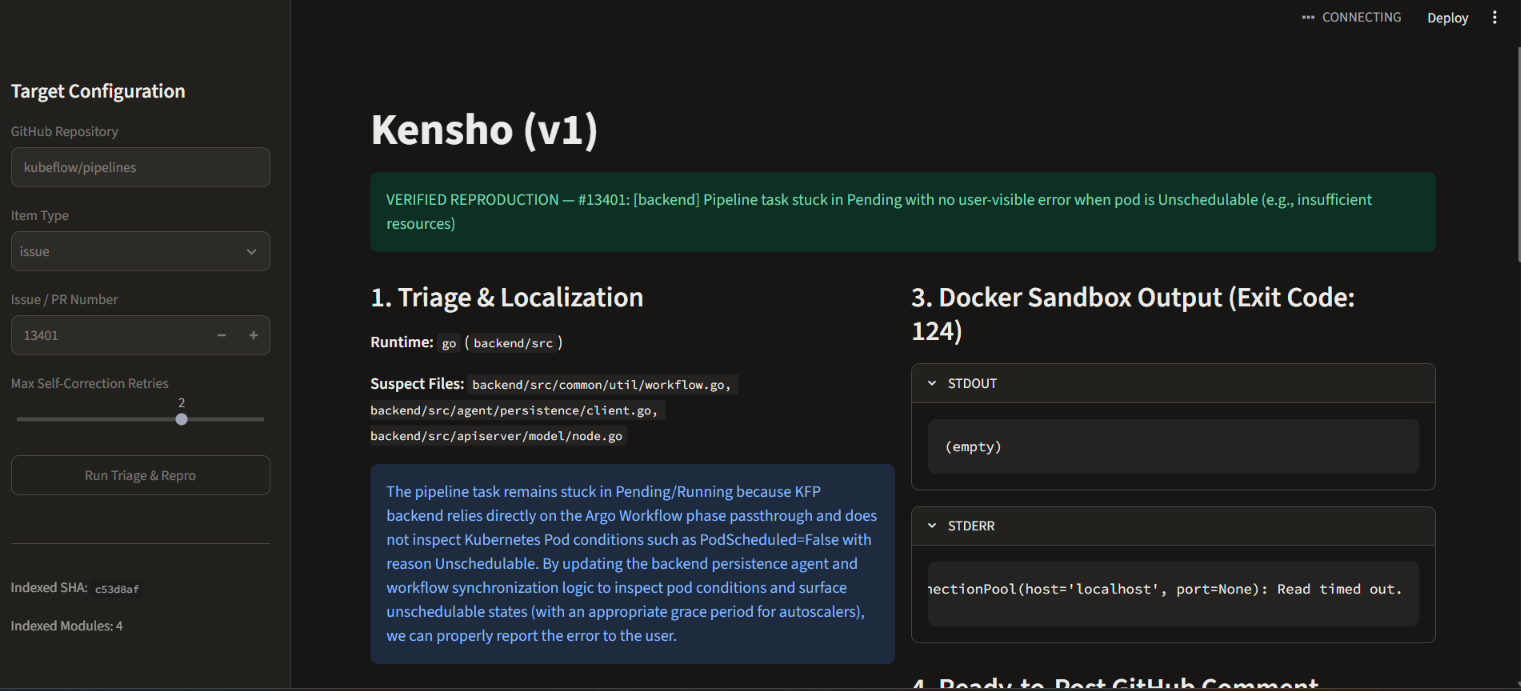
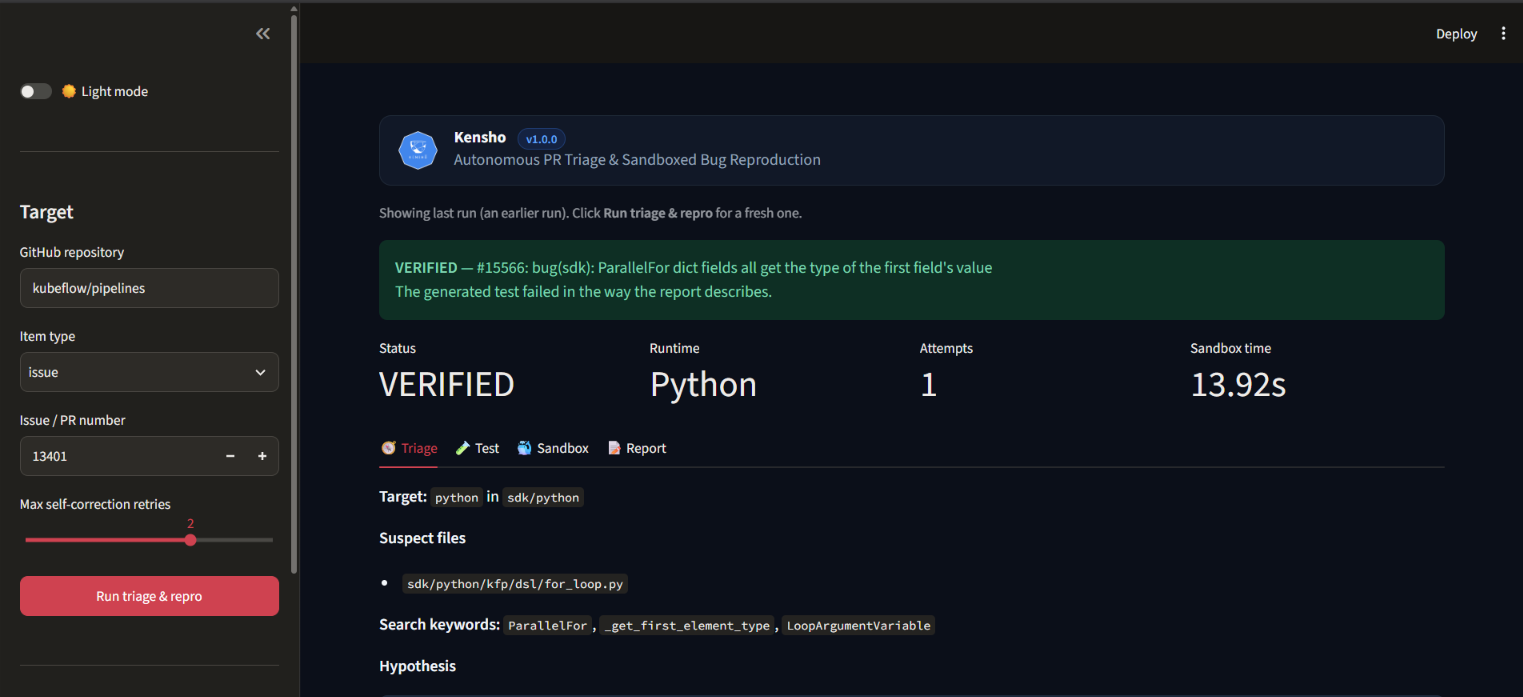
final changes for the version1.0

diff --git a/README.md b/README.md
@@ -1,5 +1,5 @@
 <div align="center">
-  <img width="175" height="160" alt="Kensho Icon" src="https://github.com/user-attachments/assets/c90b521b-eb83-4dba-aaa3-6cc7b3cc9e42" />
+  <img width="175" height="160" alt="Kensho Icon" src="assets/kensho-logo.png" />
   <h1>Kensho (v1) — Autonomous Open-Source PR Triage & Bug Reproduction Agent</h1>
   <p><em><strong>Kenshō (見性)</strong> — "Seeing into one's true nature / root cause."</em></p>
 </div>
@@ -8,12 +8,15 @@
 
 Unlike static PR bots that only summarize text diffs—or heavy autonomous coders that explore repositories blindly from scratch—Kensho maintains a **living architecture map** of the target codebase and proves bug reproducibility via **isolated Docker test execution** (`pytest` and `go test`).
 
+
+![Kensho UI](docs/kensho-ui.png)
+
 ---
 
 ## Core Engineering Highlights
 
 * **Living Repository Architecture Map (`core/repo_indexer.py`):** Performs an initial onboarding pass over repository documentation (`README.md`, `CONTRIBUTING.md`), build manifests (`pyproject.toml`, `go.mod`), and directory structures to build `repo_map.json`, then incrementally updates only modified modules via `git diff` as new PRs merge.
-* **Polyglot Ephemeral Docker Sandboxes (`core/sandbox.py`):** Streams target source trees and generated tests via in-memory `tar` archives (`put_archive`) into network-disabled (`--network none`), memory-capped (`1g`) containers (`repro-py` and `repro-go`) with zero host-filesystem pollution.
+* **Polyglot Ephemeral Docker Sandboxes (`core/sandbox.py`):** Streams target source trees and generated tests via in-memory `tar` archives (`put_archive`) into network-disabled (`--network none`), memory-capped (`1g`), capability-dropped (`cap_drop=ALL`, `no-new-privileges`) containers (`repro-py` and `repro-go`) with zero host-filesystem pollution.
 * **Cyclical Self-Correction Loop (`core/graph.py`):** Orchestrated with **LangGraph**, separating `TEST_ERROR` (syntax/import mistakes in generated tests) from `VERIFIED` failures (genuine `AssertionError`s or Go panics), automatically feeding `stderr` tracebacks back to the Coder agent up to `max_retries`.
 * **Deterministic Judge Guardrails:** Enforces Pydantic structured schemas across all LLM calls and blocks false-positive `VERIFIED` verdicts whenever sandbox runs time out (`exit_code == 124`) or pass (`exit_code == 0`).
 * **Semantic PR Diff Compression (`core/github_client.py`):** Filters auto-generated protobuf files (`*.pb.go`, `*_pb2.py`), lockfiles, and vendor directories before LLM inference.
@@ -66,11 +69,14 @@ Unlike static PR bots that only summarize text diffs—or heavy autonomous coder
 ## Project Structure
 
 ```text
-pr-repro-agent/
+pr-repo-agent/
 ├── main.py                  # Typer + Rich CLI (`index`, `sync`, `issue`, `pr`)
 ├── app.py                   # Streamlit UI for inspecting traces, logs & Markdown reports
 ├── requirements.txt         # Python dependencies
+├── .env.example             # Copy to .env and fill in your keys
+├── tests/                   # Unit tests for judge guards & tools (`pytest`)
 ├── core/
+│   ├── guards.py            # Deterministic judge guardrails & retry policy
 │   ├── schemas.py           # Pydantic models & LangGraph TypedDict state
 │   ├── llm.py               # LiteLLM multi-model router with structured output validation
 │   ├── repo_indexer.py      # Initial & incremental SHA-based architecture mapper
@@ -97,8 +103,8 @@ pr-repro-agent/
 ### 2. Installation & Environment Setup
 
 ```bash
-git clone [https://github.com/](https://github.com/)<your-username>/Triage-Agent.git
-cd Triage-Agent/pr-repro-agent
+git clone https://github.com/Snehadas2005/Kensho.git
+cd Kensho/pr-repo-agent
 
 python -m venv .venv
 source .venv/bin/activate  # On Windows Git Bash: source .venv/Scripts/activate
@@ -106,19 +112,22 @@ pip install -r requirements.txt
 
 ```
 
-Create a `.env` file in `pr-repro-agent/`:
+Copy the example env file and fill in your keys:
+
+```bash
+cp .env.example .env
+```
 
 ```env
 GEMINI_API_KEY=your_google_ai_studio_key
 GITHUB_TOKEN=your_github_personal_access_token
-
 ```
 
 ### 3. Clone Target Repository & Build Pre-Warmed Sandboxes
 
 ```bash
 mkdir -p workspace
-git clone --depth 50 [https://github.com/kubeflow/pipelines.git](https://github.com/kubeflow/pipelines.git) workspace/pipelines
+git clone --depth 50 https://github.com/kubeflow/pipelines.git workspace/pipelines
 
 docker build -t repro-py:latest -f docker/Dockerfile.python .
 docker build -t repro-go:latest -f docker/Dockerfile.go .
@@ -143,14 +152,15 @@ python main.py pr 1333
 # 5. Launch the visual trace & report viewer
 streamlit run app.py
 
+# 6. Run the unit tests
+pytest
 ```
 
 ---
 
 ## Roadmap
 
-* **v1 (Current):** Persistent `repo_map.json` with incremental SHA sync, polyglot Python/Go Docker sandboxes, 4-node LangGraph self-correction loop, Rich CLI, and Streamlit trace viewer.
+* **v1 (Current, `v1.0.0-beta.1`):** Persistent `repo_map.json` with incremental SHA sync, polyglot Python/Go Docker sandboxes, 4-node LangGraph self-correction loop, Rich CLI, and Streamlit trace viewer.
 * **v2 (Planned):** Contributor profiling (analyzing a developer's past merged PRs + interactive 3-question Gemini onboarding CLI), ChromaDB vector memory for similar past issues/tests, and Tree-sitter AST symbol indexing.
-* **v3 (Planned):** GitHub Actions webhook automation (`issues.opened` / `pull_request`), Kubernetes Job execution backend for heavy integration suites, and a FastAPI + React observability dashboard.
-
-![Kensho UI](docs/kensho-ui.png)
+* **v3 (Planned):** GitHub Actions webhook automation (`issues.opened` / `pull_request`), Kubernetes Job execution backend for heavy integration suites.
+* **v4 (Planned):** FastAPI + React observability dashboard.
